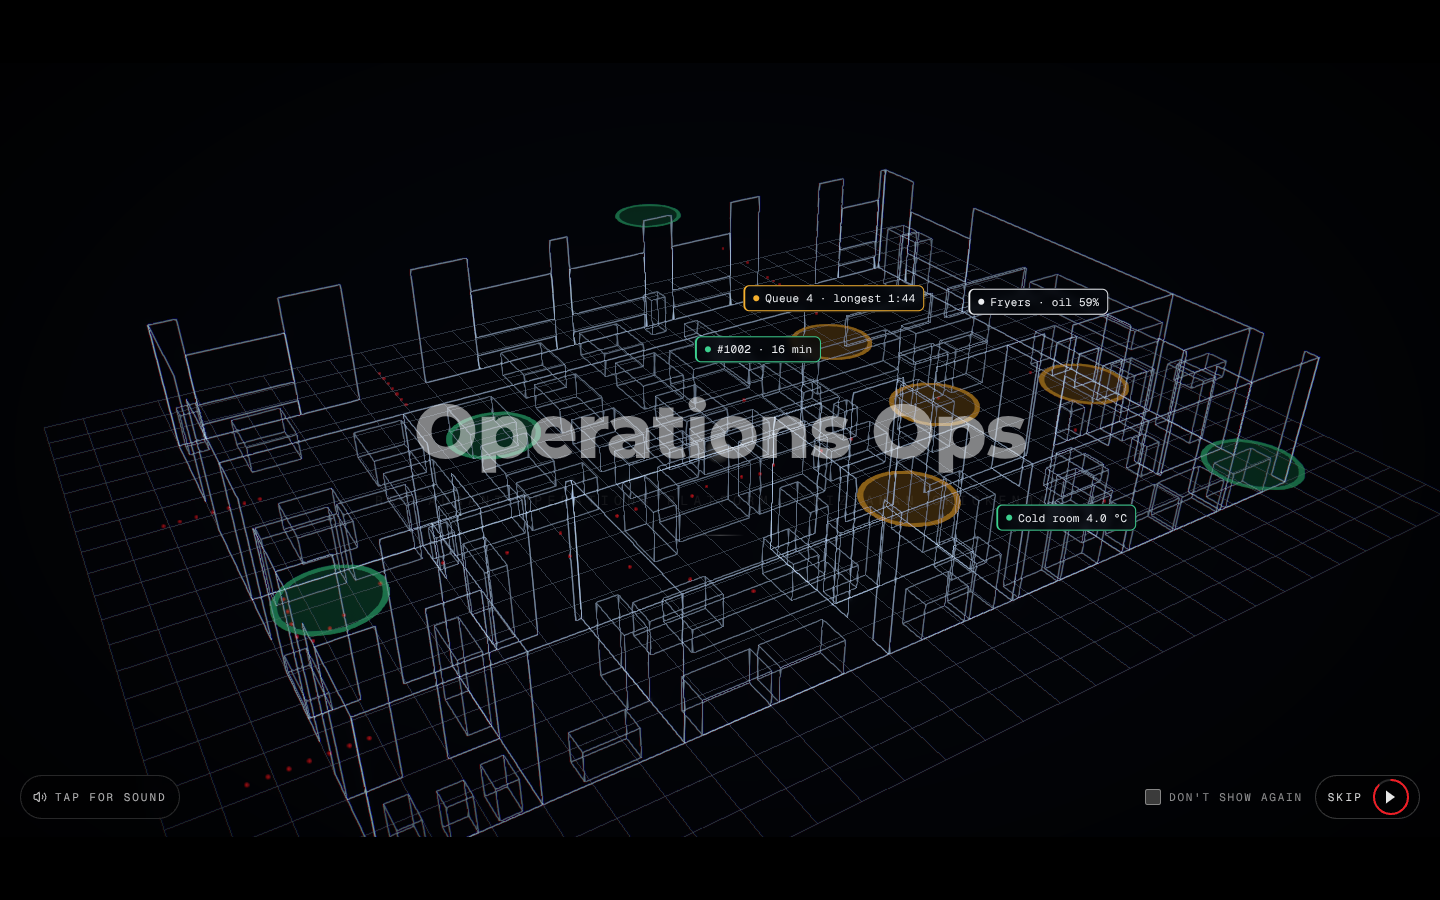
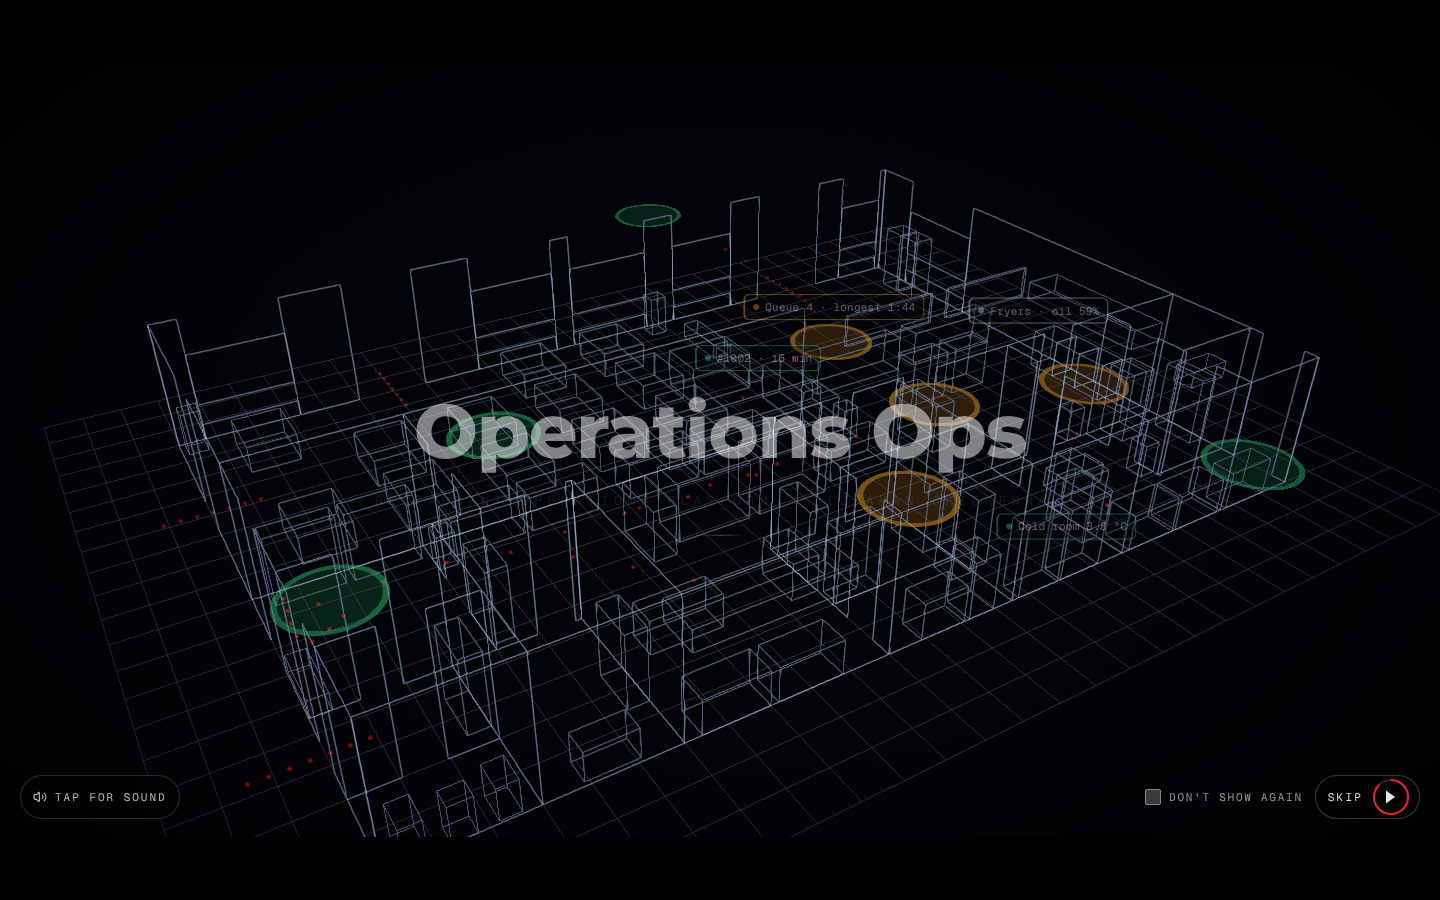
Launch: sound control back in place, stronger title corners, light-theme proof frames
Claude-Session: https://claude.ai/code/session_01Ufnt8yeUtWwphsGDpMdPeL

diff --git a/src/components/launch/IntroOverlay.tsx b/src/components/launch/IntroOverlay.tsx
@@ -15,7 +15,13 @@ const DUR = LAUNCH.intro.durationSec;
  * progress hairline. Pointer or key input anywhere unlocks audio (platform gesture rule).
  * Everything is HTML so it stays crisp on any screen and follows the app theme.
  */
-export default function IntroOverlay({ onSkip, onGesture }: { onSkip: () => void; onGesture: () => void }) {
+export default function IntroOverlay({
+  onSkip,
+  onGesture,
+}: {
+  onSkip: () => void;
+  onGesture: () => void;
+}) {
   const t = useLaunch((s) => s.t);
   const muted = useLaunch((s) => s.muted);
   const setMuted = useLaunch((s) => s.setMuted);
@@ -30,7 +36,11 @@ export default function IntroOverlay({ onSkip, onGesture }: { onSkip: () => void
   useEffect(() => {
     const onKey = (e: KeyboardEvent) => {
       onGesture();
-      if ((e.key === "Escape" || e.key === "Enter" || e.key === " ") && useLaunch.getState().t >= LAUNCH.intro.skipAfterSec) onSkip();
+      if (
+        (e.key === "Escape" || e.key === "Enter" || e.key === " ") &&
+        useLaunch.getState().t >= LAUNCH.intro.skipAfterSec
+      )
+        onSkip();
     };
     window.addEventListener("keydown", onKey);
     return () => window.removeEventListener("keydown", onKey);
@@ -38,26 +48,71 @@ export default function IntroOverlay({ onSkip, onGesture }: { onSkip: () => void
 
   const live = audioUnlocked && !muted;
   return (
-    <div className="launch-overlay absolute inset-0 z-20 select-none" onPointerDown={onGesture} role="presentation">
-      <div className="launch-veil pointer-events-none absolute inset-0" style={{ opacity: 1 - fadeIn }} />
+    <div
+      className="launch-overlay absolute inset-0 z-20 select-none"
+      onPointerDown={onGesture}
+      role="presentation"
+    >
+      <div
+        className="launch-veil pointer-events-none absolute inset-0"
+        style={{ opacity: 1 - fadeIn }}
+      />
       <div className="launch-bar pointer-events-none absolute inset-x-0 top-0 h-[7vh]" />
       <div className="launch-bar pointer-events-none absolute inset-x-0 bottom-0 h-[7vh]" />
 
       {/* title lockup */}
-      <div className="pointer-events-none absolute inset-x-0 top-1/2 flex -translate-y-1/2 justify-center px-6" style={{ opacity: title }}>
+      <div
+        className="pointer-events-none absolute inset-x-0 top-1/2 flex -translate-y-1/2 justify-center px-6"
+        style={{ opacity: title }}
+      >
         <div className="launch-title relative px-8 py-6 text-center sm:px-12 sm:py-8">
-          <span className="launch-corner launch-corner-tl" style={{ transform: `translate(${(1 - ease) * -18}px, ${(1 - ease) * -14}px)` }} />
-          <span className="launch-corner launch-corner-tr" style={{ transform: `translate(${(1 - ease) * 18}px, ${(1 - ease) * -14}px)` }} />
-          <span className="launch-corner launch-corner-bl" style={{ transform: `translate(${(1 - ease) * -18}px, ${(1 - ease) * 14}px)` }} />
-          <span className="launch-corner launch-corner-br" style={{ transform: `translate(${(1 - ease) * 18}px, ${(1 - ease) * 14}px)` }} />
-          <div className="launch-eyebrow" style={{ opacity: Math.min(1, title * 1.6) }}>
+          <span
+            className="launch-corner launch-corner-tl"
+            style={{
+              transform: `translate(${(1 - ease) * -18}px, ${(1 - ease) * -14}px)`,
+            }}
+          />
+          <span
+            className="launch-corner launch-corner-tr"
+            style={{
+              transform: `translate(${(1 - ease) * 18}px, ${(1 - ease) * -14}px)`,
+            }}
+          />
+          <span
+            className="launch-corner launch-corner-bl"
+            style={{
+              transform: `translate(${(1 - ease) * -18}px, ${(1 - ease) * 14}px)`,
+            }}
+          />
+          <span
+            className="launch-corner launch-corner-br"
+            style={{
+              transform: `translate(${(1 - ease) * 18}px, ${(1 - ease) * 14}px)`,
+            }}
+          />
+          <div
+            className="launch-eyebrow"
+            style={{ opacity: Math.min(1, title * 1.6) }}
+          >
             {TENANT.name} · East Legon
           </div>
-          <div className="launch-wordmark launch-sweep" style={{ letterSpacing: `${0.46 - ease * 0.28}em`, transform: `translateY(${(1 - ease) * 10}px)` }}>
+          <div
+            className="launch-wordmark launch-sweep"
+            style={{
+              letterSpacing: `${0.46 - ease * 0.28}em`,
+              transform: `translateY(${(1 - ease) * 10}px)`,
+            }}
+          >
             {PLATFORM.name}
           </div>
-          <div className="launch-rule mx-auto" style={{ transform: `scaleX(${ease})` }} />
-          <div className="launch-tagline" style={{ opacity: Math.max(0, title - 0.4) / 0.6 }}>
+          <div
+            className="launch-rule mx-auto"
+            style={{ transform: `scaleX(${ease})` }}
+          />
+          <div
+            className="launch-tagline"
+            style={{ opacity: Math.max(0, title - 0.4) / 0.6 }}
+          >
             {PLATFORM.tagline}
           </div>
         </div>
@@ -66,28 +121,34 @@ export default function IntroOverlay({ onSkip, onGesture }: { onSkip: () => void
       <Caption t={t} />
 
       {/* sound */}
-      <button
-        type="button"
-        onClick={(e) => {
-          e.stopPropagation();
-          onGesture();
-          setMuted(!muted);
-        }}
-        className="launch-ctl absolute bottom-[9vh] left-5 z-30"
-        aria-label={muted ? "Sound off" : "Sound on"}
-        aria-pressed={!muted}
-      >
-        <span className={`launch-meter ${live ? "is-live" : ""}`} aria-hidden>
-          <i />
-          <i />
-          <i />
-          <i />
-        </span>
-        <span className="hidden sm:inline">{muted ? "Sound off" : audioUnlocked ? "Sound on" : "Tap for sound"}</span>
-      </button>
+      <div className="absolute bottom-[9vh] left-5 z-30">
+        <button
+          type="button"
+          onClick={(e) => {
+            e.stopPropagation();
+            onGesture();
+            setMuted(!muted);
+          }}
+          className="launch-ctl"
+          aria-label={muted ? "Sound off" : "Sound on"}
+          aria-pressed={!muted}
+        >
+          <span className={`launch-meter ${live ? "is-live" : ""}`} aria-hidden>
+            <i />
+            <i />
+            <i />
+            <i />
+          </span>
+          <span className="hidden sm:inline">
+            {muted ? "Sound off" : audioUnlocked ? "Sound on" : "Tap for sound"}
+          </span>
+        </button>
+      </div>
 
       {/* don't show again + skip */}
-      <div className={`absolute bottom-[9vh] right-5 z-30 flex items-center gap-2 transition-opacity duration-500 ${canSkip ? "opacity-100" : "pointer-events-none opacity-0"}`}>
+      <div
+        className={`absolute bottom-[9vh] right-5 z-30 flex items-center gap-2 transition-opacity duration-500 ${canSkip ? "opacity-100" : "pointer-events-none opacity-0"}`}
+      >
         <label className="launch-ctl launch-ctl-quiet hidden cursor-pointer sm:inline-flex">
           <input
             type="checkbox"
@@ -98,15 +159,35 @@ export default function IntroOverlay({ onSkip, onGesture }: { onSkip: () => void
             }}
             className="sr-only"
           />
-          <span className="launch-check" data-on={dontShow ? "1" : undefined} aria-hidden />
+          <span
+            className="launch-check"
+            data-on={dontShow ? "1" : undefined}
+            aria-hidden
+          />
           Don&apos;t show again
         </label>
-        <button type="button" onClick={(e) => (e.stopPropagation(), onSkip())} className="launch-ctl launch-ctl-skip" aria-label="Skip intro">
+        <button
+          type="button"
+          onClick={(e) => (e.stopPropagation(), onSkip())}
+          className="launch-ctl launch-ctl-skip"
+          aria-label="Skip intro"
+        >
           Skip
           <svg width="14" height="14" viewBox="0 0 14 14" aria-hidden>
-            <path d="M2.5 3l4 4-4 4M7.5 3l4 4-4 4" fill="none" stroke="currentColor" strokeWidth="1.25" strokeLinecap="round" strokeLinejoin="round" />
+            <path
+              d="M2.5 3l4 4-4 4M7.5 3l4 4-4 4"
+              fill="none"
+              stroke="currentColor"
+              strokeWidth="1.25"
+              strokeLinecap="round"
+              strokeLinejoin="round"
+            />
           </svg>
-          <span className="launch-ctl-progress" style={{ transform: `scaleX(${progress})` }} aria-hidden />
+          <span
+            className="launch-ctl-progress"
+            style={{ transform: `scaleX(${progress})` }}
+            aria-hidden
+          />
         </button>
       </div>
     </div>
@@ -127,7 +208,10 @@ function Caption({ t }: { t: number }) {
   const c = CAPTIONS[i];
   const k = Math.min(1, (t - c[0]) / 0.5) * Math.min(1, (c[1] - t) / 0.4);
   return (
-    <div className="launch-caption pointer-events-none absolute left-5 top-[9.5vh] sm:left-8" style={{ opacity: k, transform: `translateY(${(1 - k) * 6}px)` }}>
+    <div
+      className="launch-caption pointer-events-none absolute left-5 top-[9.5vh] sm:left-8"
+      style={{ opacity: k, transform: `translateY(${(1 - k) * 6}px)` }}
+    >
       <span className="launch-caption-index">0{i + 1}</span>
       <span className="launch-caption-rule" />
       {c[2]}

diff --git a/src/app/globals.css b/src/app/globals.css
@@ -462,7 +462,7 @@ select {
   font-size: 10.5px;
   letter-spacing: 0.32em;
   text-transform: uppercase;
-  color: var(--launch-fg-3);
+  color: var(--launch-fg-2);
 }
 .launch-wordmark {
   margin-top: 10px;
@@ -507,9 +507,9 @@ select {
 }
 .launch-corner {
   position: absolute;
-  width: 16px;
-  height: 16px;
-  border: 1px solid var(--launch-line-2);
+  width: 18px;
+  height: 18px;
+  border: 1.5px solid var(--launch-fg-2);
 }
 .launch-corner-tl {
   left: 0;

diff --git a/docs/LAUNCH.md b/docs/LAUNCH.md
@@ -115,3 +115,5 @@ Intro beats, then the gate states, then the app, all under `docs/launch/`:
 | Wrong key | `desktop-gate-wrong.png` | `phone-gate-wrong.png` |
 | Unlock | `desktop-unlock.png` | `phone-unlock.png` |
 | App | `desktop-app.png` | `phone-app.png` |
+
+Light theme (the launch follows the app theme): `desktop-light-intro-13s.png`, `desktop-light-gate.png`.
